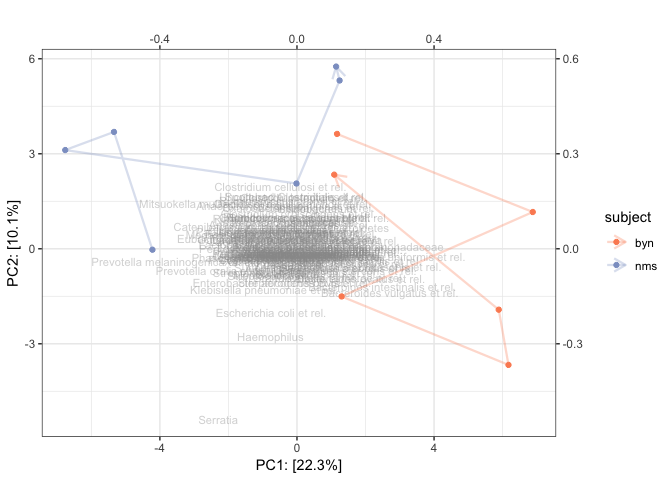
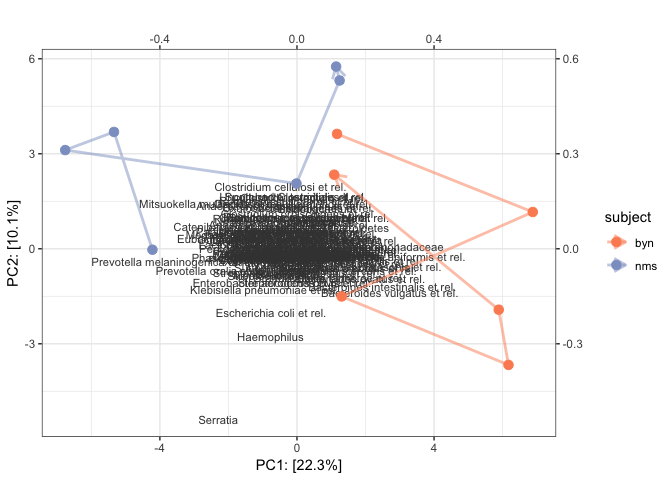
modified biplot function

diff --git a/Rmd/biplot_example.md b/Rmd/biplot_example.md
@@ -85,14 +85,14 @@ meta <- sd_to_df(pseq_clr)
 meta %>% head() %>% kable()
 ```
 
-| sample\_id | subject | sex    | nationality | group | sample   |  timepoint|  timepoint.within.group| bmi\_group |
-|:-----------|:--------|:-------|:------------|:------|:---------|----------:|-----------------------:|:-----------|
-| Sample-1   | byn     | Male   | AAM         | DI    | Sample-1 |          4|                       1| obese      |
-| Sample-2   | nms     | Male   | AFR         | HE    | Sample-2 |          2|                       1| lean       |
-| Sample-3   | olt     | Male   | AFR         | HE    | Sample-3 |          2|                       1| overweight |
-| Sample-4   | pku     | Female | AFR         | HE    | Sample-4 |          2|                       1| obese      |
-| Sample-5   | qjy     | Female | AFR         | HE    | Sample-5 |          2|                       1| overweight |
-| Sample-6   | riv     | Female | AFR         | HE    | Sample-6 |          2|                       1| obese      |
+| subject | sex    | nationality | group | sample   |  timepoint|  timepoint.within.group| bmi\_group | sample\_id |
+|:--------|:-------|:------------|:------|:---------|----------:|-----------------------:|:-----------|:-----------|
+| byn     | Male   | AAM         | DI    | Sample-1 |          4|                       1| obese      | Sample-1   |
+| nms     | Male   | AFR         | HE    | Sample-2 |          2|                       1| lean       | Sample-2   |
+| olt     | Male   | AFR         | HE    | Sample-3 |          2|                       1| overweight | Sample-3   |
+| pku     | Female | AFR         | HE    | Sample-4 |          2|                       1| obese      | Sample-4   |
+| qjy     | Female | AFR         | HE    | Sample-5 |          2|                       1| overweight | Sample-5   |
+| riv     | Female | AFR         | HE    | Sample-6 |          2|                       1| obese      | Sample-6   |
 
 ``` r
 # select any number of individuals that we want to look at:
@@ -100,20 +100,20 @@ two_individuals <- meta %>% filter(subject %in% c("byn", "nms"))
 two_individuals %>% kable()
 ```
 
-| sample\_id | subject | sex  | nationality | group | sample     |  timepoint|  timepoint.within.group| bmi\_group |
-|:-----------|:--------|:-----|:------------|:------|:-----------|----------:|-----------------------:|:-----------|
-| Sample-1   | byn     | Male | AAM         | DI    | Sample-1   |          4|                       1| obese      |
-| Sample-2   | nms     | Male | AFR         | HE    | Sample-2   |          2|                       1| lean       |
-| Sample-10  | nms     | Male | AFR         | HE    | Sample-10  |          3|                       2| lean       |
-| Sample-18  | nms     | Male | AFR         | DI    | Sample-18  |          4|                       1| lean       |
-| Sample-26  | nms     | Male | AFR         | DI    | Sample-26  |          5|                       2| lean       |
-| Sample-40  | byn     | Male | AAM         | ED    | Sample-40  |          1|                       1| obese      |
-| Sample-49  | byn     | Male | AAM         | ED    | Sample-49  |          6|                       2| obese      |
-| Sample-127 | byn     | Male | AAM         | HE    | Sample-127 |          3|                       2| obese      |
-| Sample-148 | byn     | Male | AAM         | DI    | Sample-148 |          5|                       2| obese      |
-| Sample-154 | byn     | Male | AAM         | HE    | Sample-154 |          2|                       1| obese      |
-| Sample-207 | nms     | Male | AFR         | ED    | Sample-207 |          1|                       1| lean       |
-| Sample-215 | nms     | Male | AFR         | ED    | Sample-215 |          6|                       2| lean       |
+| subject | sex  | nationality | group | sample     |  timepoint|  timepoint.within.group| bmi\_group | sample\_id |
+|:--------|:-----|:------------|:------|:-----------|----------:|-----------------------:|:-----------|:-----------|
+| byn     | Male | AAM         | DI    | Sample-1   |          4|                       1| obese      | Sample-1   |
+| nms     | Male | AFR         | HE    | Sample-2   |          2|                       1| lean       | Sample-2   |
+| nms     | Male | AFR         | HE    | Sample-10  |          3|                       2| lean       | Sample-10  |
+| nms     | Male | AFR         | DI    | Sample-18  |          4|                       1| lean       | Sample-18  |
+| nms     | Male | AFR         | DI    | Sample-26  |          5|                       2| lean       | Sample-26  |
+| byn     | Male | AAM         | ED    | Sample-40  |          1|                       1| obese      | Sample-40  |
+| byn     | Male | AAM         | ED    | Sample-49  |          6|                       2| obese      | Sample-49  |
+| byn     | Male | AAM         | HE    | Sample-127 |          3|                       2| obese      | Sample-127 |
+| byn     | Male | AAM         | DI    | Sample-148 |          5|                       2| obese      | Sample-148 |
+| byn     | Male | AAM         | HE    | Sample-154 |          2|                       1| obese      | Sample-154 |
+| nms     | Male | AFR         | ED    | Sample-207 |          1|                       1| lean       | Sample-207 |
+| nms     | Male | AFR         | ED    | Sample-215 |          6|                       2| lean       | Sample-215 |
 
 ``` r
 # now we can use biplot:
@@ -145,14 +145,14 @@ meta <- atlas1006 %>% sd_to_df()
 head(meta) %>% kable()
 ```
 
-| sample\_id |  age| gender | nationality | DNA\_extraction\_method | project |  diversity| bmi\_group  | subject |  time| sample   |
-|:-----------|----:|:-------|:------------|:------------------------|:--------|----------:|:------------|:--------|-----:|:---------|
-| Sample-1   |   28| male   | US          | NA                      | 1       |       5.76| severeobese | 1       |     0| Sample-1 |
-| Sample-2   |   24| female | US          | NA                      | 1       |       6.06| obese       | 2       |     0| Sample-2 |
-| Sample-3   |   52| male   | US          | NA                      | 1       |       5.50| lean        | 3       |     0| Sample-3 |
-| Sample-4   |   22| female | US          | NA                      | 1       |       5.87| underweight | 4       |     0| Sample-4 |
-| Sample-5   |   25| female | US          | NA                      | 1       |       5.89| lean        | 5       |     0| Sample-5 |
-| Sample-6   |   42| male   | US          | NA                      | 1       |       5.53| lean        | 6       |     0| Sample-6 |
+|  age| gender | nationality | DNA\_extraction\_method | project |  diversity| bmi\_group  | subject |  time| sample   | sample\_id |
+|----:|:-------|:------------|:------------------------|:--------|----------:|:------------|:--------|-----:|:---------|:-----------|
+|   28| male   | US          | NA                      | 1       |       5.76| severeobese | 1       |     0| Sample-1 | Sample-1   |
+|   24| female | US          | NA                      | 1       |       6.06| obese       | 2       |     0| Sample-2 | Sample-2   |
+|   52| male   | US          | NA                      | 1       |       5.50| lean        | 3       |     0| Sample-3 | Sample-3   |
+|   22| female | US          | NA                      | 1       |       5.87| underweight | 4       |     0| Sample-4 | Sample-4   |
+|   25| female | US          | NA                      | 1       |       5.89| lean        | 5       |     0| Sample-5 | Sample-5   |
+|   42| male   | US          | NA                      | 1       |       5.53| lean        | 6       |     0| Sample-6 | Sample-6   |
 
 ``` r
 # since the output is a list of ggplot objects, 
@@ -185,13 +185,28 @@ The function
 biplot <- function(
   pseq_clr, 
   scaling_factor = 10, 
-  color = NULL, 
+  color = NULL,
+  shape = NULL,
   text = FALSE, 
+  label = "sample_id",
+  alpha = 1,
   split_by = FALSE, 
   facet = FALSE, 
   connect_series = FALSE, 
   subject_id = "subject_id", 
-  filter_samples = FALSE) {
+  filter_samples = FALSE,
+  otu_color = "#404040",
+  text_size = 3,
+  point_size = 3,
+  otu_text_size = 3, 
+  otu_alpha = 1, 
+  textcolor = "black",
+  loading = FALSE,
+  path_size = 1, 
+  path_alpha = 0.5,
+  arrow_size = 0.35,
+  colors = c("#fc8d62", "#8da0cb", "#66c2a5",'#1f78b4','#33a02c','#e31a1c'),
+  gradient = FALSE) {
     
     
     # PCA
@@ -207,6 +222,11 @@ biplot <- function(
             mutate_all(function(x) x * scaling_factor) %>%
             add_column(taxa = rownames(pcx$rotation))
                        
+    if (loading != FALSE) {
+        loading <- loading * scaling_factor
+        pcx_rot <- pcx_rot %>% filter(abs(PC1) > loading | abs(PC2) > loading | abs(PC3) > loading | abs(PC4) > loading)
+        }
+                       
     # combine first 4 PCs with metadata
     princomps <- pcx$x %>% as.data.frame() %>%
         rownames_to_column("sample_id") %>%
@@ -219,7 +239,9 @@ biplot <- function(
     if (filter_samples != FALSE) data <- data %>% filter(sample_id %in% filter_samples)
                        
     # avoid errors due to wrong class
-    if (length(color) > 0) data[[color]] <-  as.factor(data[[color]])
+    if (length(color) > 0 & !gradient) {
+      data[[color]] <-  as.factor(data[[color]])
+    }
     
     # if connecting by time, data must be arranged accordingly and also time/subject must be factor
     if (connect_series != FALSE) { 
@@ -228,9 +250,6 @@ biplot <- function(
         data <- data %>% arrange_(subject_id, connect_series)
     } 
  
-    
-
-                       
 
     # how much variance do pcs explain?
     pc1 <- round(pcx$sdev[1]^2/sum(pcx$sdev^2),3)
@@ -242,12 +261,11 @@ biplot <- function(
     # define plottting function 
     create_plot <- function(data, pc = 1, pc1, pc2, title = "") {
         data %>%        
-        ggplot(aes_string(glue("PC{pc}"), glue("PC{pc+1}"), label = "sample_id", color = color)) +
-            geom_text(data = pcx_rot, aes_string(glue("PC{pc}"), glue("PC{pc+1}"), label = "taxa"), color = "#999999", size = 3, alpha = 0.4) +
+        ggplot(aes_string(glue("PC{pc}"), glue("PC{pc+1}"), label = label, color = color)) +
+            geom_text(data = pcx_rot, aes_string(glue("PC{pc}"), glue("PC{pc+1}"), label = "taxa"), color = otu_color, size = otu_text_size, alpha = otu_alpha) +
             xlab(glue("PC{pc}: [{pc1*100}%]")) +  ylab(glue("PC{pc+1}: [{pc2*100}%]")) +
             scale_y_continuous(sec.axis = ~./scaling_factor) +
             scale_x_continuous(sec.axis = ~./scaling_factor) +
-            scale_color_manual(values = c("#fc8d62", "#8da0cb", "#66c2a5",'#1f78b4','#33a02c','#e31a1c')) +
             ggtitle(title) +
             theme_bw()  
     }
@@ -267,22 +285,29 @@ biplot <- function(
     }
                        
 
+    # path 
+    if (connect_series != FALSE) {
+      pc_plots <- map(pc_plots, ~.x + geom_path(aes_string(group = subject_id), arrow = arrow(length = unit(arrow_size,"cm"), ends = "last"), alpha = path_alpha, size = path_size))
+                                      
+                      
+    }
+                       
                        
     # apply optionals 
     # text 
     if (text) {
-        pc_plots <- map(pc_plots, ~.x + geom_text(size = 3))
+        pc_plots <- map(pc_plots, ~.x + geom_text(size = text_size, color = textcolor))
     }else{
-        pc_plots <- map(pc_plots, ~.x + geom_point())
+        pc_plots <- map(pc_plots, ~.x + geom_point(aes_string(shape = shape), alpha = alpha, size = point_size))
     }
 
-                    
-    # path 
-    if (connect_series != FALSE) {
-      pc_plots <- map(pc_plots, ~.x + geom_path(aes_string(group = subject_id), arrow = arrow(length = unit(0.35,"cm"), ends = "last"), alpha = 0.3, size = 0.8))
-                                      
-                      
-    } 
+    # apply color for factors
+    if (length(color) > 0 & !gradient) {
+      pc_plots <- map(pc_plots, ~.x + scale_color_manual(values = c(colors)))
+    }
+    
+           
+
                        
     # facetting 
     if (facet != FALSE) pc_plots <- map(pc_plots, ~.x + facet_wrap(as.formula(glue(".~{facet}"))))  
